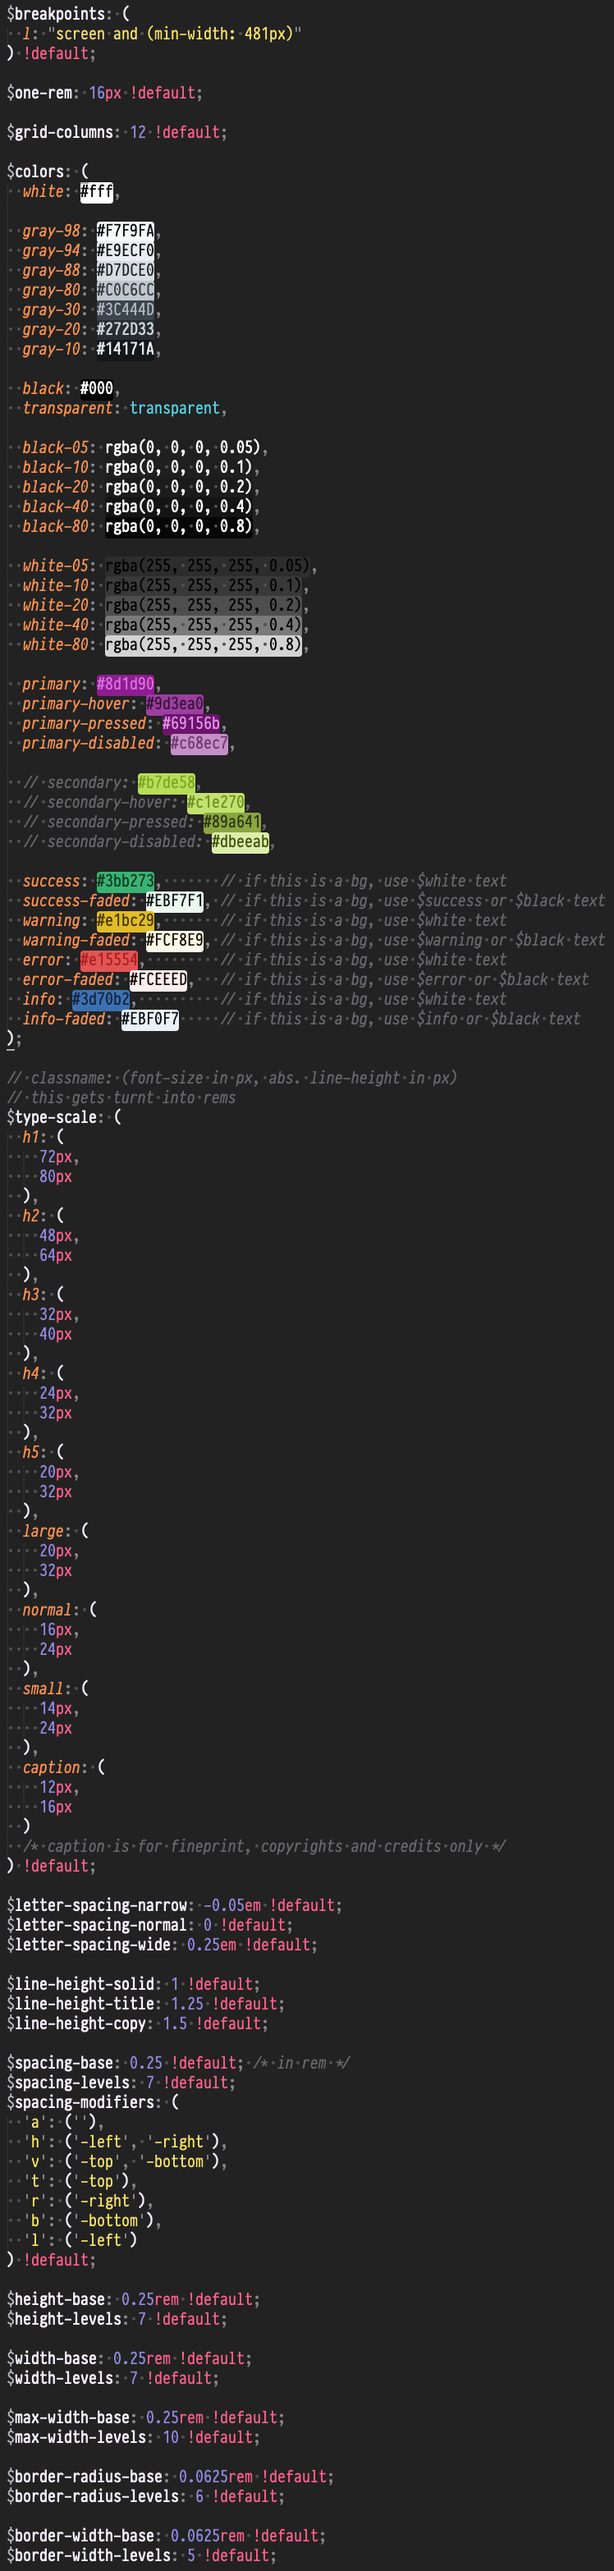
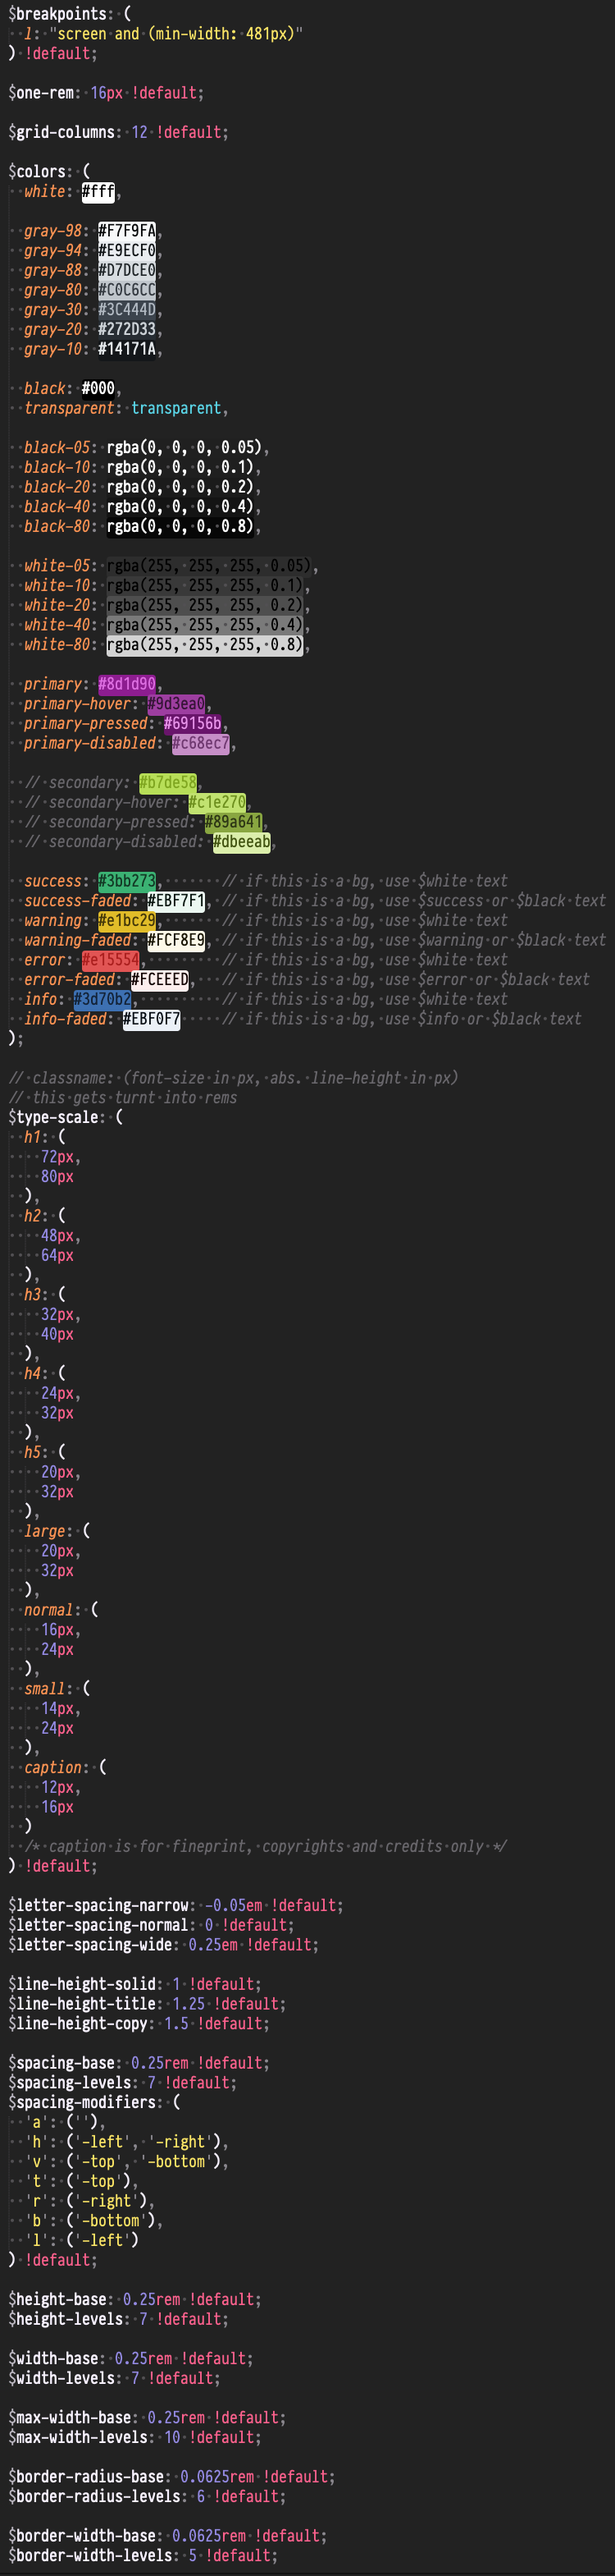
spacing variable to rem

diff --git a/src/_spacing.scss b/src/_spacing.scss
@@ -26,7 +26,7 @@ Modifiers:
     @for $i from 1 through $spacing-levels {
       #{bp()}p#{$modifier}#{$i} {
         @each $value in $values {
-          padding#{$value}: #{$spacing-base * pow(2, ($i - 1))}rem;
+          padding#{$value}: $spacing-base * pow(2, ($i - 1));
         }
       }
     }
@@ -40,7 +40,7 @@ Modifiers:
     @for $i from 1 through $spacing-levels {
       #{bp()}m#{$modifier}#{$i} {
         @each $value in $values {
-          margin#{$value}: #{$spacing-base * pow(2, ($i - 1))}rem;
+          margin#{$value}: $spacing-base * pow(2, ($i - 1));
         }
       }
     }

diff --git a/src/__variables.scss b/src/__variables.scss
@@ -108,7 +108,7 @@ $line-height-solid: 1 !default;
 $line-height-title: 1.25 !default;
 $line-height-copy: 1.5 !default;
 
-$spacing-base: 0.25 !default; /* in rem */
+$spacing-base: 0.25rem !default;
 $spacing-levels: 7 !default;
 $spacing-modifiers: (
   'a': (''),
